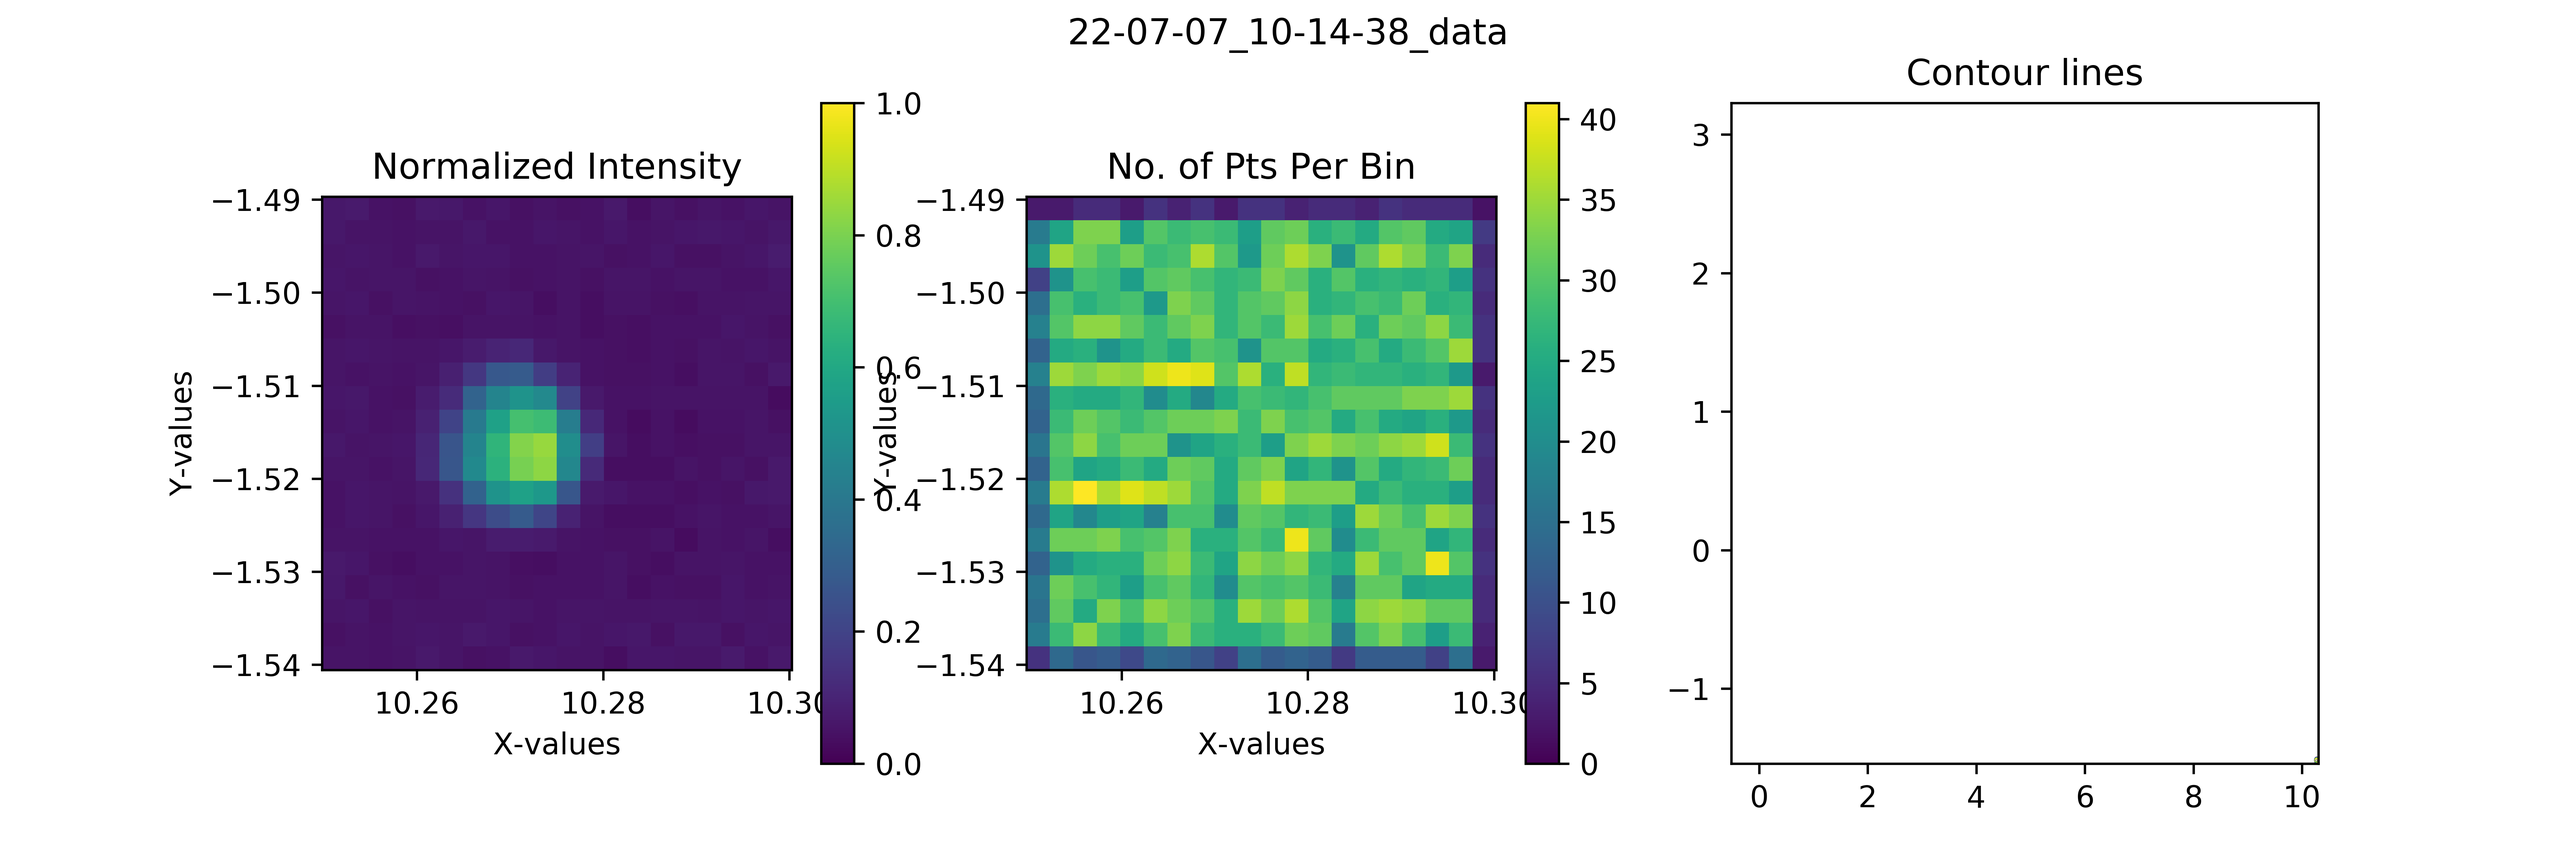
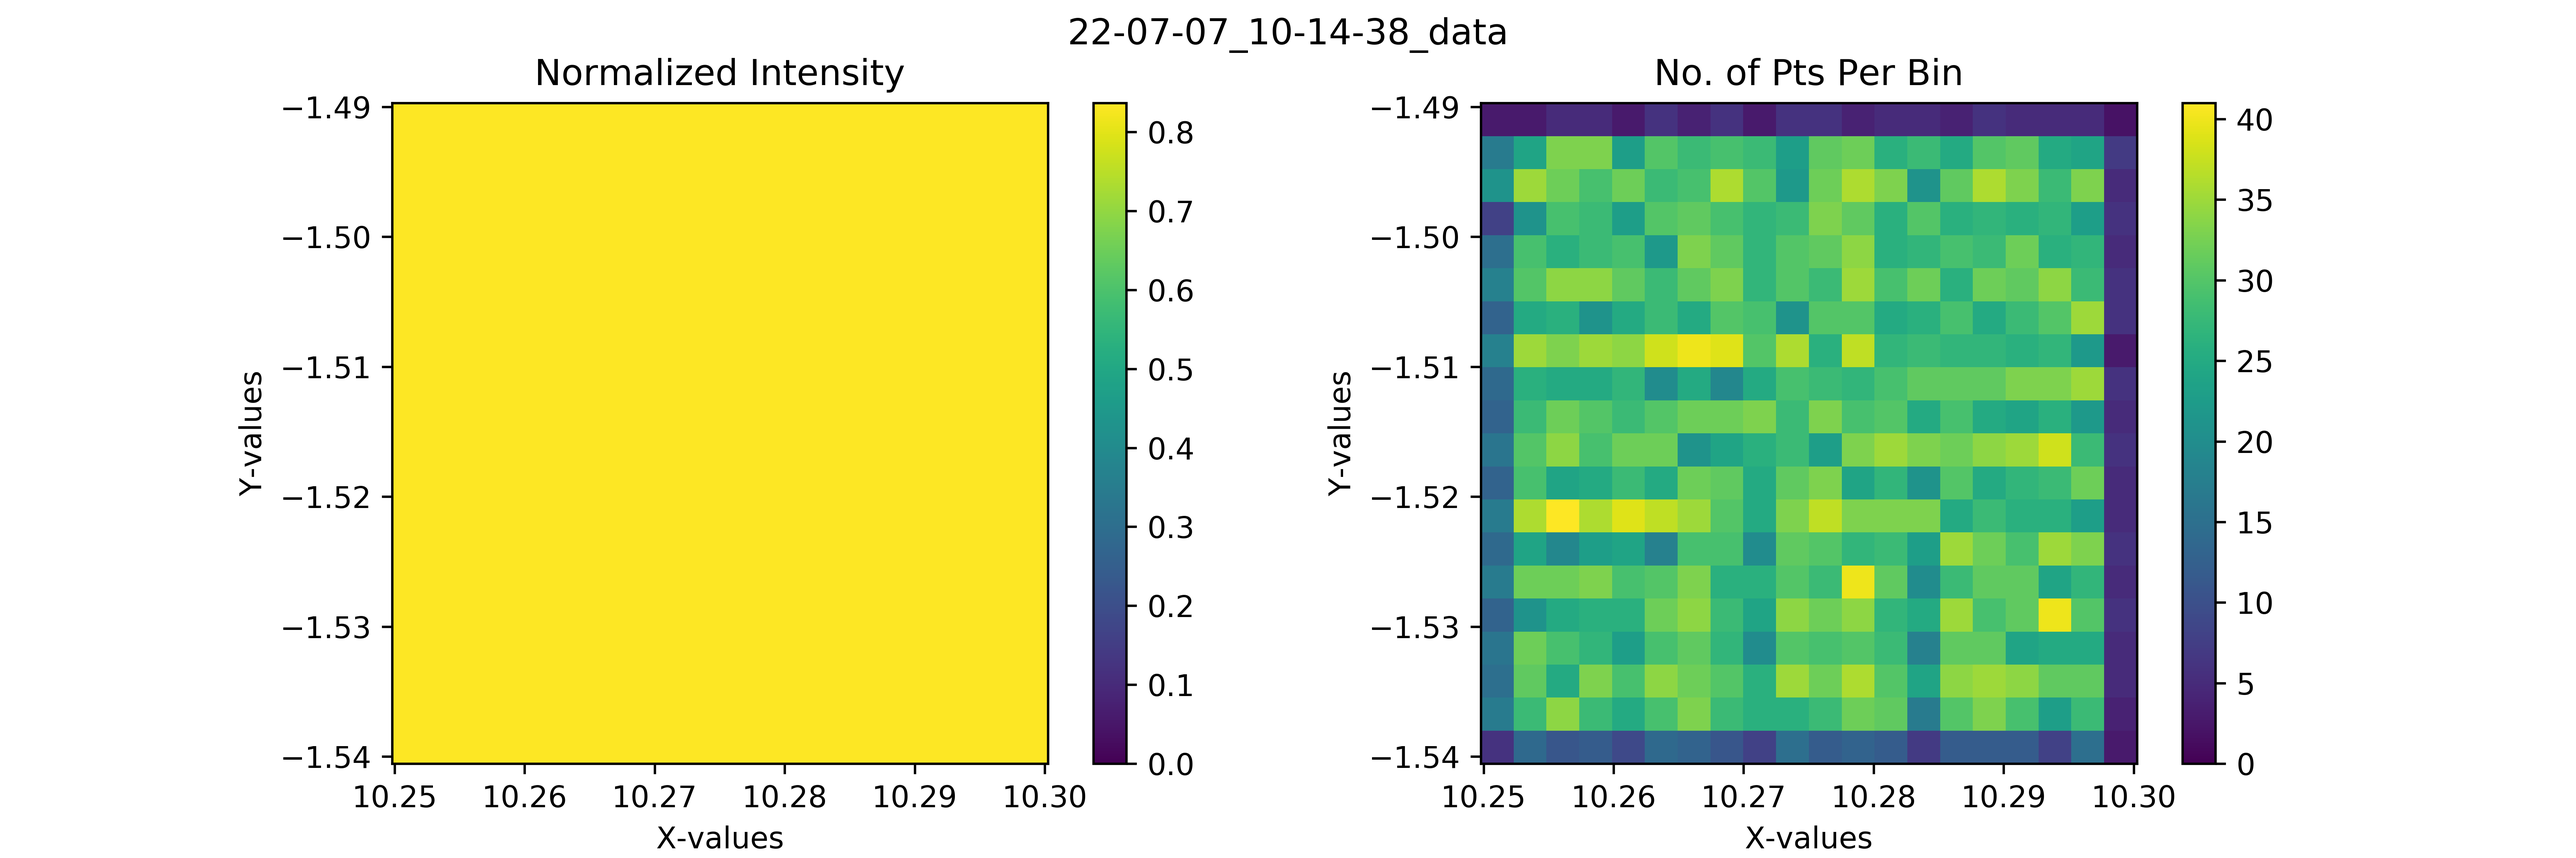
data analysis files

diff --git a/Dataanalysis_v06.py b/Dataanalysis_v06.py
@@ -16,9 +16,9 @@ from scipy.interpolate import griddata
 
 
 ### Importing E-field data
-masterpath  =   r"C:\Users\Hannah Niese\Documents\GitHub\MCLMicroDrive\22_07_07_20x"
+masterpath  =   r"C:\Users\Hannah Niese\Documents\GitHub\MCLMicroDrive\22_07_18_20x_chess"
 #masterpath  =  r"C:\Users\Congreve Optics\Desktop\Hannah\MCLMicroDrive\22_07_07_20x"
-file        =   '22-07-07_10-03-19_data'
+file        =   '22-07-18_15-01-49_data'
 ftype       =   '.txt'
 datafile    =   masterpath + '\\' + file + ftype
 outpath     =   masterpath + '\\analysis'
@@ -29,7 +29,7 @@ data    = np.loadtxt(datafile, delimiter=',',  skiprows=1)
 
 
 # import sideprofile
-side_file   =   '22-07-07_10-27-23_data'
+side_file   =   '22-07-18_15-38-47_data'
 ftype       =   '.txt'
 side_datafile    =   masterpath + '\\' + side_file + ftype
 
@@ -51,15 +51,17 @@ I = data[:,7]*1000 # convert to mV
 
 
 # normalized datasets
-I_norm = (I - I.min())/delta_I # convert to mV
+I_norm = (I - I.min())/delta_I**2 # convert to mV
 
 
 # side dataset
 x_side = side_data[:,4]
 y_side = side_data[:,5]
 z_side = side_data[:,6]
-I_side_norm = (I_side - I.min())/delta_I # convert to mV
+I_side_norm = (I_side - I.min())/delta_I**2 # convert to mV
 I_side_limit = I_side
+
+I_squared_max = I_side_norm.max()
 
 #for i in range(len(I_side_limit)):
 #    if I_side[i] < 0.5:
@@ -68,13 +70,31 @@ I_side_limit = I_side
 #        I_side_limit[i] = 1
 #    else:
 #        I_side_limit[i] = 0
+#%%
+binsize=0.0027
+profile=0
+plotgriddata(x, y, I_norm, profile, binsize, I_squared_max) 
 
-plotgriddata(x, y, I_norm, profile=0, binsize=0.0027)
-
-plotgriddata(y_side, z_side, I_side_norm, profile = 1, binsize=0.0027)
+profile=1
+plotgriddata(y_side, z_side, I_side_norm, profile, binsize, I_squared_max)
 
 #%% try out interpolation onto grid
 
+def pointsongrid(x, y, I_norm):
+    # input: takes coordinates and intensities at measured locations
+    # output: coordinates and intensities on grid (x, y, Intensity)
+    ngridx = ngridy = 0.0001     # Grid resolution
+    z = I_norm
+    
+    # Create grid values
+    xi = np.arange(x.min(), x.max(), ngridx)
+    yi = np.arange(y.min(), y.max(), ngridy)
+    extent = (x.min(), x.max(), y.min(), y.max()) # extent of the plot
+    
+    # Linearly interpolate the data (x, y) on a grid defined by (xi, yi).  
+    zi = griddata((x, y), z, (xi[None, :], yi[:, None]), method='linear')
+    
+    return xi, yi, zi
 
 
 def gridinterpolation(x,y,I_norm):
@@ -106,7 +126,7 @@ def gridinterpolation(x,y,I_norm):
     
     zi = griddata((x, y), z, (xi[None, :], yi[:, None]), method='linear')
     
-    #ax1.imshow(zi, extent=extent, vmin=0, vmax=1, origin='lower')
+    ax1.imshow(zi, extent=extent, vmin=0, vmax=1, origin='lower')
     ax1.contour(xi, yi, zi, aspect='equal')
     cntr1 = ax1.contourf(xi, yi, zi, levels=10, cmap="RdBu_r", aspect='equal')
     
@@ -314,7 +334,7 @@ def gridondata(x, y, z, binsize, retbin=True, retloc=True):
             return grid
 
 
-def plotgriddata(x, y, I_norm, profile, binsize):
+def plotgriddata(x, y, I_norm, profile, binsize, I_side_max):
     '''    
     Function plots the interpolated (bilinear) image of the measurement area, 
     with the input binsize (should correspond to stepsize of measurement plus error)
@@ -325,7 +345,7 @@ def plotgriddata(x, y, I_norm, profile, binsize):
     binsize: Binning for the grid
     
     '''
-    #grid, bins, wherebin, xi, yi = griddata(x, y, I_norm, binsize, retbin=True, retloc=True)
+    grid, bins, wherebin, xi, yi = gridondata(x, y, I_norm, binsize, retbin=True, retloc=True)
     
     
     if profile == 0:
@@ -340,7 +360,7 @@ def plotgriddata(x, y, I_norm, profile, binsize):
     
     # minimum values for colorbar. filter our nans which are in the grid
     zmin    = 0 #grid[np.where(np.isnan(grid) == False)].min()
-    zmax    = 1 #grid[np.where(np.isnan(grid) == False)].max()
+    zmax    = I_squared_max #grid[np.where(np.isnan(grid) == False)].max()
     
     
     
@@ -348,7 +368,7 @@ def plotgriddata(x, y, I_norm, profile, binsize):
     palette = 'viridis'#plt.matplotlib.colors.LinearSegmentedColormap('viridis',plt.cm.datad['viridis'],2048)
     #palette.set_under(alpha=0.0)
     
-    fig, axs = plt.subplots(1,3, figsize=(12,4))
+    fig, axs = plt.subplots(1,2, figsize=(12,4))
     fig.suptitle(save)
     
     # plot the results.  first plot is x, y vs z, where z is a filled level plot.
@@ -369,10 +389,10 @@ def plotgriddata(x, y, I_norm, profile, binsize):
     axs[1].set_title('No. of Pts Per Bin')
     plt.colorbar(bins, ax = axs[1])
     
-    axs[2].plot(1, 2, 3)
-    cont = axs[2].contour(xi, yi, grid, extent=extent, oritin='lower')
-    axs[2].clabel(cont, inline=True, fontsize=10)
-    axs[2].set_title('Contour lines')
+#    axs[2].plot(1, 2, 3)
+#    cont = axs[2].contour(xi, yi, grid, extent=extent, oritin='lower')
+#    axs[2].clabel(cont, inline=True, fontsize=10)
+#    axs[2].set_title('Contour lines')
     
     os.chdir(outpath)
     plt.savefig('%s_binning.png' % save, dpi=600)
@@ -382,3 +402,126 @@ def plotgriddata(x, y, I_norm, profile, binsize):
 #plt.imshow(grid)
 
 #plotgriddata(x, y, I_norm, binsize=0.0015, 0)
+
+#%% fit
+    
+import numpy as np
+from scipy.optimize import curve_fit
+import matplotlib.pyplot as plt
+from mpl_toolkits.mplot3d import Axes3D
+
+
+x_grid, y_grid, Int = pointsongrid(x, y, I_norm)
+# The two-dimensional domain of the fit.
+#xmin, xmax, nx = x_grid.min(), x_grid.max(), 100
+#ymin, ymax, ny = y_grid.min(), y_grid.max(), 100
+#x, y = np.linspace(xmin, xmax, nx), np.linspace(ymin, ymax, ny)
+X, Y = np.meshgrid(x_grid, y_grid)
+Z = np.nan_to_num(Int)
+
+# Plot the 3D figure of the fitted function and the residuals.
+fig = plt.figure()
+ax = fig.gca(projection='3d')
+ax.plot_surface(X, Y, Z, cmap='plasma')
+ax.set_zlim(0,np.max(Z)+0.2)
+plt.show()
+
+def get_basis(x, y, max_order=4):
+    """Return the fit basis polynomials: 1, x, x^2, ..., xy, x^2y, ... etc."""
+    basis = []
+    for i in range(max_order+1):
+        for j in range(max_order - i +1):
+            basis.append(x**j * y**i)
+    return basis
+
+# We need to ravel the meshgrids of X, Y points to a pair of 1-D arrays.
+x, y = X.ravel(), Y.ravel()
+# Maximum order of polynomial term in the basis.
+max_order = 8
+basis = get_basis(x, y, max_order)
+# Linear, least-squares fit.
+A = np.vstack(basis).T
+b = Z.ravel()
+c, r, rank, s = np.linalg.lstsq(A, b, rcond=None)
+
+print('Fitted parameters:')
+print(c)
+
+# Calculate the fitted surface from the coefficients, c.
+fit = np.sum(c[:, None, None] * np.array(get_basis(X, Y, max_order))
+                .reshape(len(basis), *X.shape), axis=0)
+
+rms = np.sqrt(np.mean((Z - fit)**2))
+print('RMS residual =', rms)
+
+# Plot the 3D figure of the fitted function and the residuals.
+fig = plt.figure()
+ax = fig.add_subplot(projection='3d')
+ax.plot_surface(X, Y, fit, cmap='viridis')
+cset = ax.contourf(X, Y, Z-fit, zdir='z', offset=-4, cmap='viridis')
+ax.set_zlim(-4,np.max(fit))
+plt.show()
+
+# Plot the test data as a 2D image and the fit as overlaid contours.
+fig = plt.figure()
+ax = fig.add_subplot(111)
+ax.imshow(Z, origin='lower', cmap='viridis',
+          extent=(x.min(), x.max(), y.min(), y.max()))
+ax.contour(X, Y, fit, colors='w')
+plt.show()
+
+
+#%%
+
+# Our function to fit is going to be a sum of two-dimensional Gaussians
+def gaussian(x, y, x0, y0, xalpha, yalpha, A):
+    return A * np.exp( -((x-x0)/xalpha)**2 -((y-y0)/yalpha)**2)
+
+# This is the callable that is passed to curve_fit. M is a (2,N) array
+# where N is the total number of data points in Z, which will be ravelled
+# to one dimension.
+def _gaussian(M, *args):
+    x, y = M
+    arr = np.zeros(x.shape)
+    for i in range(len(args)//5):
+       arr += gaussian(x, y, *args[i*5:i*5+5])
+    return arr
+
+# Initial guesses to the fit parameters.
+guess_prms = [(0, 0, 1, 1, 2),
+              (-1.5, 5, 5, 1, 3),
+              (-1, -1, 1.5, 1.5, 3),
+              (-1, -1, 1.5, 1.5, 6.5)
+             ]
+# Flatten the initial guess parameter list.
+p0 = [p for prms in guess_prms for p in prms]
+
+# We need to ravel the meshgrids of X, Y points to a pair of 1-D arrays.
+xdata = np.vstack((X.ravel(), Y.ravel()))
+# Do the fit, using our custom _gaussian function which understands our
+# flattened (ravelled) ordering of the data points.
+popt, pcov = curve_fit(_gaussian, xdata, Z.ravel(), p0)
+fit = np.zeros(Z.shape)
+for i in range(len(popt)//5):
+    fit += gaussian(X, Y, *popt[i*5:i*5+5])
+print('Fitted parameters:')
+print(popt)
+
+rms = np.sqrt(np.mean((Z - fit)**2))
+print('RMS residual =', rms)
+
+# Plot the 3D figure of the fitted function and the residuals.
+fig = plt.figure()
+ax = fig.gca(projection='3d')
+ax.plot_surface(X, Y, fit, cmap='plasma')
+cset = ax.contourf(X, Y, Z-fit, zdir='z', offset=-4, cmap='plasma')
+ax.set_zlim(np.min(fit),np.max(fit))
+plt.show()
+
+# Plot the test data as a 2D image and the fit as overlaid contours.
+fig = plt.figure()
+ax = fig.add_subplot(111)
+ax.imshow(Z, origin='bottom', cmap='plasma',
+          extent=(x.min(), x.max(), y.min(), y.max()))
+ax.contour(X, Y, fit, colors='w')
+plt.show()
